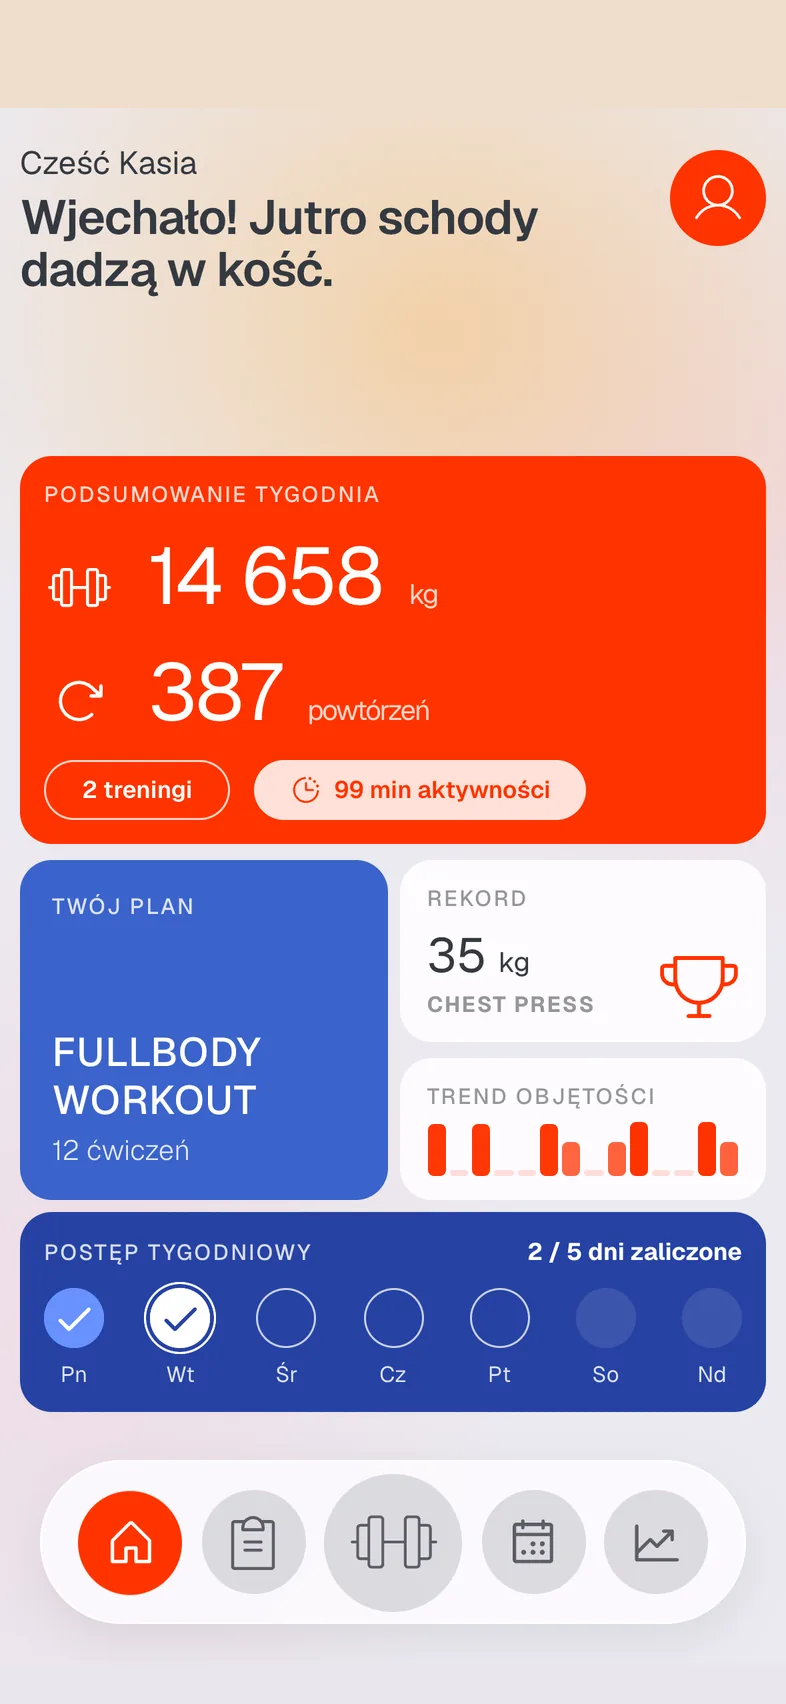
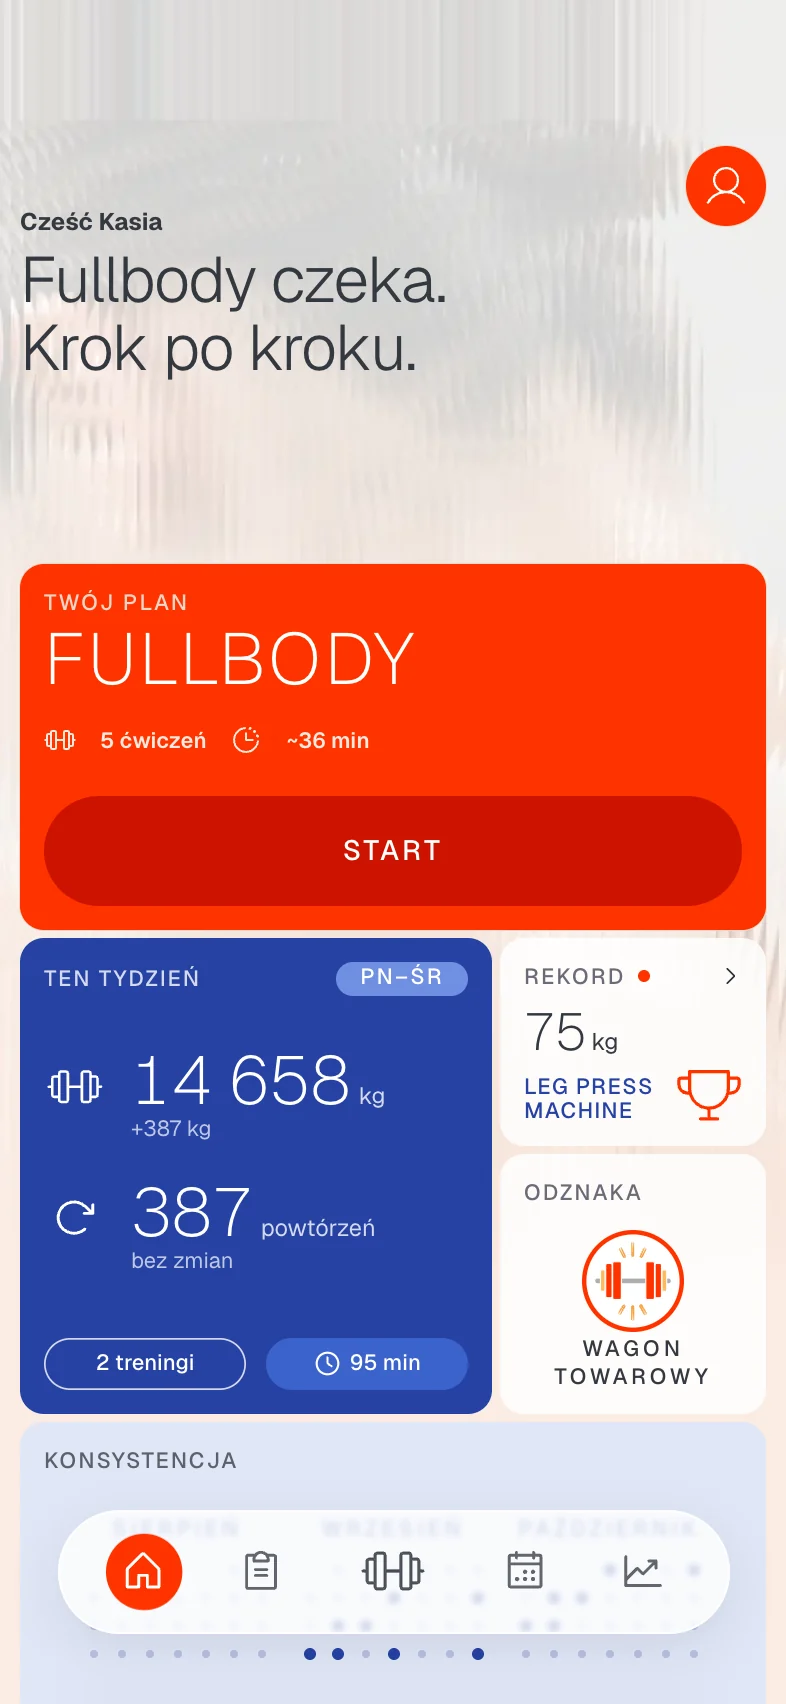
Landing hero: aktualne ekrany na orbicie (dashboard, GYM, logowanie serii) z wersji 4.69.0

diff --git a/landing/index.html b/landing/index.html
@@ -615,8 +615,8 @@ details > div{padding:0 60px 26px 0; color:var(--m-muted); font-size:16px;}
 
     <div class="hero-stage" id="stage">
       <div class="hero-giant" aria-hidden="true"><span class="l1">każda seria</span><span class="l2">jest ważna</span></div>
-      <div class="hero-orbit" id="heroOrbit" data-screens="img/scr-dashboard.webp img/scr-gym.webp img/scr-stats.webp">
-        <img class="orbit-poster gl-poster" src="img/r-orbit.webp" alt="Trzy iPhone'y z aplikacją Mekkio: pulpit z podsumowaniem tygodnia i planem na dziś, ekran treningu z ćwiczeniami z planu oraz statystyki z rekordami" width="1440" height="1040" fetchpriority="high">
+      <div class="hero-orbit" id="heroOrbit" data-screens="img/scr-dashboard.webp img/scr-gym.webp img/scr-logset.webp">
+        <img class="orbit-poster gl-poster" src="img/r-orbit.webp" alt="Trzy iPhone'y z aplikacją Mekkio: pulpit z planem na dziś i podsumowaniem tygodnia, ekran treningu z ćwiczeniami z planu oraz logowanie serii z wyborem ciężaru i powtórzeń" width="1440" height="1040" fetchpriority="high">
         <canvas class="gl-canvas" aria-hidden="true"></canvas><canvas class="gl-canvas" aria-hidden="true"></canvas><canvas class="gl-canvas" aria-hidden="true"></canvas>
       </div>
     </div>
